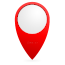
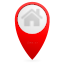
update

Changed region(s): [[0.3385, 0.1231, 0.6462, 0.4]]

diff --git a/src/js/map.js b/src/js/map.js
@@ -1,3 +1,9 @@
+/*
+* Brouet Thierry
+*
+* 2021
+*  */
+
 let lat = 50.4676822;
 let lng = 2.5603700000000345;
 let map = null;
@@ -5,15 +11,16 @@ let map = null;
 // Map initialization
 function initMap() {
 
-    map = L.map('map').setView([lat, lng], 14);
+    map = L.map('map').setView([lat, lng], 15);
 
     L.tileLayer('https://{s}.tile.openstreetmap.fr/osmfr/{z}/{x}/{y}.png', {
         attribution: 'données © <a href="//osm.org/copyright">OpenStreetMap</a>/ODbL - rendu <a href="//openstreetmap.fr">OSM France</a>&nbsp&nbsp',
         minZoom: 10,
-        maxZoom: 18
-    }).addTo(map);
+        maxZoom: 18,
+    })
+        .addTo(map);
 
-    // Marker
+    // Custom Marker
     let icon = L.icon({
         iconUrl: 'src/img/icon.png',
         iconSize: [65, 65],
@@ -21,10 +28,12 @@ function initMap() {
         popupAnchor: [-1, -60]
     });
 
-    let marker = L.marker([lat, lng], {icon: icon}).addTo(map);
+    let marker = L.marker([lat, lng], {icon: icon})
+        .addTo(map);
 
     marker.addEventListener("mouseover", () => {
-        marker.bindPopup("<h3>Marker test</h3><br>Here is the text of marker test").openPopup();
+        marker.bindPopup("<h3>Marker test</h3><br>Here is the text of marker test")
+            .openPopup();
     });
 
     marker.addEventListener("mouseout", () => {

diff --git a/index.html b/index.html
@@ -5,6 +5,7 @@
     <meta charset="utf-8">
     <meta name="viewport" content="width=device-width, initial-scale=1, shrink-to-fit=no">
 
+    <link rel="icon" href="favicon.ico" />
     <link rel="stylesheet" href="src/css/style.css">
     <link rel="stylesheet" href="src/css/leaflet.css">
 </head>
